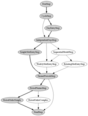
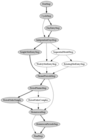
Update the test plan to include the new homeroom steps.  Add the "do you have a homeroom?" question step to the timetable wizard.

Changed region(s): [[0.0, 0.0, 1.0, 0.9828], [0.7045, 0.4914, 1.0, 0.5948]]

diff --git a/src/schooltool/timetable/browser/ttwizard.py b/src/schooltool/timetable/browser/ttwizard.py
@@ -24,6 +24,9 @@ on the schooltool mailing list, in ttschema-wireframes.pdf[1].
 
     [1] http://lists.schooltool.org/pipermail/schooltool/2005-June/001347.html
 
+It has been slightly modified since.  You can find an up-to-date diagram
+of the workflow in src/schooltool/app/browser/ftests/images/
+
 The workflow is as follows:
 
     1. "New timetable schema"
@@ -92,13 +95,21 @@ The workflow is as follows:
 
         (The user sees a grid of drop-downs.)
 
-    14. The timetable schema is created.
+    14. "Does your school have a homeroom period?"
+
+        Skip to step 16 if it doesn't.
+
+    15. "Indicate which period is the homeroom period."
+
+        (The user sees a list of drop-downs.)
+
+    16. The timetable schema is created.
 
 
-The shortest path through this workflow contains 6 steps, the longest contains
-11 steps.
+The shortest path through this workflow contains 7 steps, the longest contains
+13 steps.
 
-Step 14 needs the following data:
+Step 16 needs the following data:
 
     - title (determined in step 1)
     - timetable model factory (determined in step 2)
@@ -523,7 +534,7 @@ class NamedPeriodsStep(ChoiceStep):
         if session['named_periods']:
             return PeriodNamesStep(self.context, self.request)
         else:
-            return FinalStep(self.context, self.request)
+            return HomeroomStep(self.context, self.request)
 
 
 class PeriodNamesStep(FormStep):
@@ -627,7 +638,7 @@ class PeriodOrderSimple(Step):
         return True
 
     def next(self):
-        return FinalStep(self.context, self.request)
+        return HomeroomStep(self.context, self.request)
 
 
 class PeriodOrderComplex(Step):
@@ -684,7 +695,30 @@ class PeriodOrderComplex(Step):
         return True
 
     def next(self):
-        return FinalStep(self.context, self.request)
+        return HomeroomStep(self.context, self.request)
+
+
+class HomeroomStep(ChoiceStep):
+    """A step for choosing whether the school has homeroom periods."""
+
+    key = 'homeroom'
+
+    question = _("Do you check student attendance for the day in a homeroom"
+                 " period or equivalent?")
+
+    choices = (('yes', _("Yes")),
+               ('no',  _("No")))
+
+    def next(self):
+        session = self.getSessionData()
+        if session['homeroom'] == 'yes':
+            # TODO: HomeroomPeriodsStep
+            return FinalStep(self.context, self.request)
+        else:
+            return FinalStep(self.context, self.request)
+
+
+# TODO: HomeroomPeriodsStep
 
 
 class FinalStep(Step):

diff --git a/src/schooltool/timetable/browser/tests/test_ttwizard.py b/src/schooltool/timetable/browser/tests/test_ttwizard.py
@@ -760,7 +760,7 @@ def doctest_NamedPeriodsStep():
 
         >>> view.getSessionData()['named_periods'] = False
         >>> view.next()
-        <...ttwizard.FinalStep...>
+        <...ttwizard.HomeroomStep...>
 
     """
 
@@ -836,12 +836,13 @@ def doctest_PeriodNamesStep():
         >>> view.getSessionData()['period_names']
         [u'A', u'B', u'C', u'D']
 
-    The next page is FinalStep.
+    The next page is HomeroomStep.
 
         >>> view.next()
         <schooltool.timetable.browser.ttwizard.PeriodSequenceSameStep ...>
 
     """
+
 
 def doctest_PeriodSequenceSameStep():
     r"""Unit test for PeriodSequenceSameStep
@@ -865,6 +866,7 @@ def doctest_PeriodSequenceSameStep():
         <schooltool.timetable.browser.ttwizard.PeriodOrderComplex...>
 
     """
+
 
 def doctest_PeriodOrderSimple():
     """Unit test for PeriodOrderSimple view
@@ -945,7 +947,7 @@ def doctest_PeriodOrderSimple():
     The next step is always the final step:
 
         >>> view.next()
-        <...ttwizard.FinalStep ...>
+        <...ttwizard.HomeroomStep ...>
 
     If not all periods are in the request, update fails and the user
     gets an error.  This is unlikely in real life as the dropdowns
@@ -1127,7 +1129,7 @@ def doctest_PeriodOrderComplex():
     The next step is always the final step:
 
         >>> view.next()
-        <...ttwizard.FinalStep ...>
+        <...ttwizard.HomeroomStep ...>
 
     If not all periods are in the request, update fails and the user
     gets an error.  This is unlikely in real life as the dropdowns
@@ -1284,6 +1286,33 @@ def doctest_PeriodOrderComplex_weekly_rotating():
 
         >>> view.numSlots()
         [1, 1, 3, 1, 1]
+
+    """
+
+
+def doctest_HomeroomStep():
+    r"""Unit test for HomeroomStep
+
+        >>> from schooltool.timetable.browser.ttwizard import HomeroomStep
+        >>> context = app['ttschemas']
+        >>> request = TestRequest()
+        >>> view = HomeroomStep(context, request)
+
+    If you say that your school does not take attendance in a homeroom period,
+    you will be redirected to FinalStep.
+
+        >>> session = view.getSessionData()
+        >>> session['homeroom'] = 'no'
+        >>> view.next()
+        <...ttwizard.FinalStep...>
+
+    Otherwise, you will have to specify the homeroom period for each day
+
+    XXX not implemented yet
+
+        >>> session['homeroom'] = 'yes'
+        >>> view.next()
+        <...ttwizard.FinalStep...>
 
     """
 
